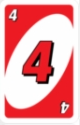
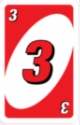
Functioning cards with corrected discard pile

Changed region(s): [[0.25, 0.312, 0.7, 0.696], [0.75, 0.792, 0.875, 0.936], [0.1, 0.048, 0.25, 0.192]]

diff --git a/build/resources/main/templates/player2.html b/build/resources/main/templates/player2.html
@@ -8,7 +8,7 @@
 </head>
 <body>
 <div>
-
+    <h1> Player 2: Cameron </h1>
     <div class="discard-pile">
         <!-- display draw pile -->
         <a th:href="'/player3/'+ 98"><img class="draw" th:src="'/cards/AllCardsFolder/' + '55.png'" alt="draw pile"/></a>
@@ -17,15 +17,20 @@
     </div>
     <div class="player-hand">
         <div class ="row">
+            <!-- loops through to create 7 cards -->
+            <div class="item" th:each="displayPlayerHand: ${player2Hand}">
             <div class ="column">
-                <!-- loops through to create 7 cards -->
-                <div th:each="displayPlayerHand: ${player2Hand}">
+
                     <a th:href="'/player3/' + ${displayPlayerHand.cardID}">
                         <img th:src="@{'/cards/AllCardsFolder/' + ${displayPlayerHand.cardID} + '.png'}"/>
                     </a>
                 </div>
             </div>
         </div>
+    </div>
+    <div th:hidden="${noWinner}">
+        <a href="/winner">
+            <input type="button" value="There's a winner!"></a>
     </div>
 </div>
 </body>

diff --git a/src/main/resources/templates/player2.html b/src/main/resources/templates/player2.html
@@ -8,7 +8,7 @@
 </head>
 <body>
 <div>
-
+    <h1> Player 2: Cameron </h1>
     <div class="discard-pile">
         <!-- display draw pile -->
         <a th:href="'/player3/'+ 98"><img class="draw" th:src="'/cards/AllCardsFolder/' + '55.png'" alt="draw pile"/></a>
@@ -17,15 +17,20 @@
     </div>
     <div class="player-hand">
         <div class ="row">
+            <!-- loops through to create 7 cards -->
+            <div class="item" th:each="displayPlayerHand: ${player2Hand}">
             <div class ="column">
-                <!-- loops through to create 7 cards -->
-                <div th:each="displayPlayerHand: ${player2Hand}">
+
                     <a th:href="'/player3/' + ${displayPlayerHand.cardID}">
                         <img th:src="@{'/cards/AllCardsFolder/' + ${displayPlayerHand.cardID} + '.png'}"/>
                     </a>
                 </div>
             </div>
         </div>
+    </div>
+    <div th:hidden="${noWinner}">
+        <a href="/winner">
+            <input type="button" value="There's a winner!"></a>
     </div>
 </div>
 </body>

diff --git a/build/resources/main/templates/player3.html b/build/resources/main/templates/player3.html
@@ -8,7 +8,7 @@
 </head>
 <body>
 <div>
-
+    <h1> Player 3: Elissa </h1>
     <div class="discard-pile">
         <!-- display draw pile -->
         <a th:href="'/player1/'+ 98"><img class="draw" th:src="'/cards/AllCardsFolder/' + '55.png'" alt="draw pile"/></a>
@@ -17,14 +17,19 @@
     </div>
     <div class="player-hand">
         <div class ="row">
+            <div class= "item" th:each="displayPlayerHand: ${player3Hand}">
             <div class ="column">
-                <div th:each="displayPlayerHand: ${player3Hand}">
+
                     <a th:href="'/player1/' + ${displayPlayerHand.cardID}">
                         <img th:src="@{'/cards/AllCardsFolder/' + ${displayPlayerHand.cardID} + '.png'}"/>
                     </a>
                 </div>
             </div>
         </div>
+    </div>
+    <div th:hidden="${noWinner}">
+        <a href="/winner">
+            <input type="button" value="There's a winner!"></a>
     </div>
 </div>
 </body>

diff --git a/src/main/resources/templates/player3.html b/src/main/resources/templates/player3.html
@@ -8,7 +8,7 @@
 </head>
 <body>
 <div>
-
+    <h1> Player 3: Elissa </h1>
     <div class="discard-pile">
         <!-- display draw pile -->
         <a th:href="'/player1/'+ 98"><img class="draw" th:src="'/cards/AllCardsFolder/' + '55.png'" alt="draw pile"/></a>
@@ -17,14 +17,19 @@
     </div>
     <div class="player-hand">
         <div class ="row">
+            <div class= "item" th:each="displayPlayerHand: ${player3Hand}">
             <div class ="column">
-                <div th:each="displayPlayerHand: ${player3Hand}">
+
                     <a th:href="'/player1/' + ${displayPlayerHand.cardID}">
                         <img th:src="@{'/cards/AllCardsFolder/' + ${displayPlayerHand.cardID} + '.png'}"/>
                     </a>
                 </div>
             </div>
         </div>
+    </div>
+    <div th:hidden="${noWinner}">
+        <a href="/winner">
+            <input type="button" value="There's a winner!"></a>
     </div>
 </div>
 </body>

diff --git a/build/resources/main/templates/player1.html b/build/resources/main/templates/player1.html
@@ -8,7 +8,7 @@
 </head>
 <body>
 <div>
-
+<h1> Player 1: Andrea </h1>
     <div class="discard-pile">
         <!-- display draw pile -->
         <a th:href="'/player2/'+ 98"><img class="draw" th:src="'/cards/AllCardsFolder/' + '55.png'" alt="draw pile"/></a>
@@ -17,14 +17,19 @@
     </div>
     <div class="player-hand">
         <div class ="row">
+            <div class ="item" th:each="displayPlayerHand: ${player1Hand}">
             <div class ="column">
-                <div th:each="displayPlayerHand: ${player1Hand}">
+
                     <a th:href="'/player2/' + ${displayPlayerHand.cardID}">
                         <img th:src="@{'/cards/AllCardsFolder/' + ${displayPlayerHand.cardID} + '.png'}"/>
                     </a>
                 </div>
             </div>
         </div>
+    </div>
+    <div th:hidden="${noWinner}">
+    <a href="/winner">
+        <input type="button" value="There's a winner!"></a>
     </div>
 </div>
 </body>

diff --git a/src/main/resources/templates/player1.html b/src/main/resources/templates/player1.html
@@ -8,7 +8,7 @@
 </head>
 <body>
 <div>
-
+<h1> Player 1: Andrea </h1>
     <div class="discard-pile">
         <!-- display draw pile -->
         <a th:href="'/player2/'+ 98"><img class="draw" th:src="'/cards/AllCardsFolder/' + '55.png'" alt="draw pile"/></a>
@@ -17,14 +17,19 @@
     </div>
     <div class="player-hand">
         <div class ="row">
+            <div class ="item" th:each="displayPlayerHand: ${player1Hand}">
             <div class ="column">
-                <div th:each="displayPlayerHand: ${player1Hand}">
+
                     <a th:href="'/player2/' + ${displayPlayerHand.cardID}">
                         <img th:src="@{'/cards/AllCardsFolder/' + ${displayPlayerHand.cardID} + '.png'}"/>
                     </a>
                 </div>
             </div>
         </div>
+    </div>
+    <div th:hidden="${noWinner}">
+    <a href="/winner">
+        <input type="button" value="There's a winner!"></a>
     </div>
 </div>
 </body>

diff --git a/build/resources/main/static/app.css b/build/resources/main/static/app.css
@@ -1,13 +1,15 @@
-.player-hand .row{
-    content:"";
-    clear:both;
+.player-hand {
     display: table;
+    width: 100%;
+    max-width: 60%;
+    margin: 0 auto;
 
 
 }
-.player-hand .row .column{
-    box-sizing: border-box ;
-    float:left;
-    width:33.3%;
-    padding: 5px;
+.player-hand .item {
+    display:table-cell;
+    width:10%;
+    height:100px;
+    background-size:cover;
+    background-repeat:no-repeat;
 }

diff --git a/src/main/resources/static/app.css b/src/main/resources/static/app.css
@@ -1,13 +1,15 @@
-.player-hand .row{
-    content:"";
-    clear:both;
+.player-hand {
     display: table;
+    width: 100%;
+    max-width: 60%;
+    margin: 0 auto;
 
 
 }
-.player-hand .row .column{
-    box-sizing: border-box ;
-    float:left;
-    width:33.3%;
-    padding: 5px;
+.player-hand .item {
+    display:table-cell;
+    width:10%;
+    height:100px;
+    background-size:cover;
+    background-repeat:no-repeat;
 }

diff --git a/build/resources/main/templates/winner.html b/build/resources/main/templates/winner.html
@@ -1,0 +1,10 @@
+<!DOCTYPE html>
+<html lang="en">
+<head>
+    <meta charset="UTF-8">
+    <title>Title</title>
+</head>
+<body>
+
+</body>
+</html>

diff --git a/src/main/resources/templates/winner.html b/src/main/resources/templates/winner.html
@@ -1,0 +1,10 @@
+<!DOCTYPE html>
+<html lang="en">
+<head>
+    <meta charset="UTF-8">
+    <title>Title</title>
+</head>
+<body>
+
+</body>
+</html>

diff --git a/src/main/java/AceUno/controller/GameController.java b/src/main/java/AceUno/controller/GameController.java
@@ -27,6 +27,11 @@ public class GameController {
         if (cardID >=0 && cardID <=55){
             dealer.discardCard(3, cardID);
         }
+        if (dealer.checkWinner() !=0){
+            modelmap.put("noWinner", false);
+        } else {
+            modelmap.put("noWinner", true);
+        }
         modelmap.put("player1Hand", dealer.getPlayerHand(1));
         modelmap.put("topDiscardCard", dealer.getTopDiscardCard());
         return "player1";
@@ -41,6 +46,11 @@ public class GameController {
         if (cardID >=0 && cardID <=55){
             dealer.discardCard(1, cardID);
         }
+        if (dealer.checkWinner() !=0){
+            modelmap.put("noWinner", false);
+        } else {
+            modelmap.put("noWinner", true);
+        }
         modelmap.put("player2Hand", dealer.getPlayerHand(2));
         modelmap.put("topDiscardCard", dealer.getTopDiscardCard());
         return "player2";
@@ -54,6 +64,11 @@ public class GameController {
         }
         if (cardID >=0 && cardID <=55){
             dealer.discardCard(2, cardID);
+        }
+        if (dealer.checkWinner() !=0){
+            modelmap.put("noWinner", false);
+        } else {
+            modelmap.put("noWinner", true);
         }
         modelmap.put("player3Hand", dealer.getPlayerHand(3));
         modelmap.put("topDiscardCard", dealer.getTopDiscardCard());

diff --git a/src/main/java/AceUno/data/DeckManager.java b/src/main/java/AceUno/data/DeckManager.java
@@ -19,7 +19,7 @@ public class DeckManager {
     String[] colors = {"Red","Yellow","Green","Blue"};
     Random rand = new Random();
 
-    int cardCount = 0;
+    int cardCount = 1;
 
     public DeckManager(){
         for(int j=0; j<colors.length; j++){
@@ -99,14 +99,14 @@ public class DeckManager {
             while(!(player2.get(handPlace).getCardID() == cardID)){
                 handPlace++;
             }
-            discardPile.add(player1.get(handPlace));
+            discardPile.add(player2.get(handPlace));
             player2.remove(handPlace);
         }
         if(playerNum == 3){
             while(!(player3.get(handPlace).getCardID() == cardID)){
                 handPlace++;
             }
-            discardPile.add(player1.get(handPlace));
+            discardPile.add(player3.get(handPlace));
             player3.remove(handPlace);
         }
 
@@ -134,6 +134,17 @@ public class DeckManager {
 
     public Card getTopDiscardCard(){
         return discardPile.get(discardPile.size()-1);
+    }
+
+    public int checkWinner(){
+        if (player1.size() == 0)
+            return 1;
+        else if (player2.size() == 0)
+            return 2;
+        else if (player3.size() == 0)
+            return 3;
+        else
+            return 0;
     }
 
 }
